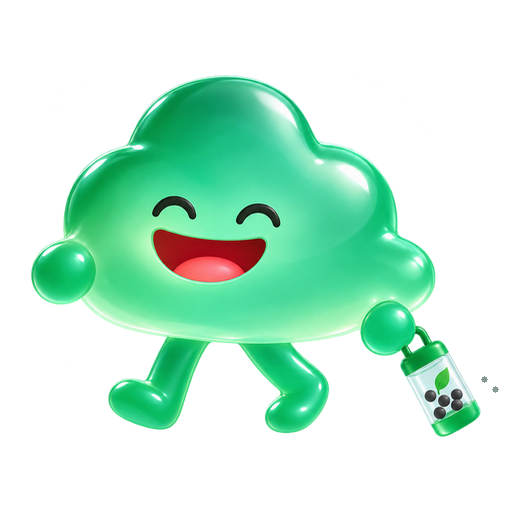
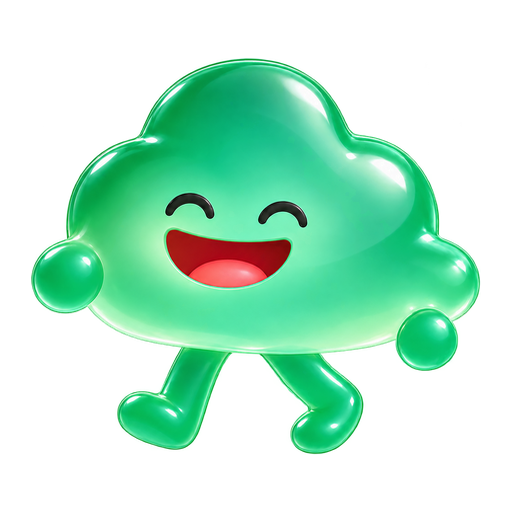
v0.44.1: 去掉语音助手手持瓶并更新透明动图

Changed region(s): [[0.0625, 0.0938, 0.9375, 0.9062], [0.9375, 0.7188, 0.9688, 0.75]]

diff --git a/apps/web/components/VoiceAssistant.tsx b/apps/web/components/VoiceAssistant.tsx
@@ -84,7 +84,7 @@ export default function VoiceAssistant({ year, overview, page = "/" }: { year: n
             }
             .xy-character-button::before {
               inset:0; border:0; border-radius:0;
-              background:center / contain no-repeat url('/mascots/carbon-cloud/animation.gif');
+              background:center / contain no-repeat url('/mascots/carbon-cloud/animation.gif?v=0.44.1');
               z-index:2;
             }
             .xy-character-button::after { display:none; }
@@ -96,7 +96,7 @@ export default function VoiceAssistant({ year, overview, page = "/" }: { year: n
               .xy-widget[data-state=mic_off] .xy-status[data-error=false] { display:none; }
             }
             @media (prefers-reduced-motion:reduce) {
-              .xy-character-button::before { background-image:url('/mascots/carbon-cloud/poster.png'); }
+              .xy-character-button::before { background-image:url('/mascots/carbon-cloud/poster.png?v=0.44.1'); }
             }
           `;
           shadow.appendChild(style);

diff --git a/scripts/render-mascot-gifs.py b/scripts/render-mascot-gifs.py
@@ -58,17 +58,7 @@ def voice_marks(canvas: Image.Image, phase: float, kind: str) -> None:
                 angles = (-65, 65) if side > 0 else (115, 245)
                 arc(center_x, center_y, radius, *angles, alpha)
     else:
-        # Three dark particles drift into the bottle in a seamless cycle.
-        for offset in (0.0, 0.33, 0.66):
-            progress = (phase / (2 * math.pi) + offset) % 1.0
-            x = round(507 - 35 * progress)
-            y = round(392 - 17 * progress + 3 * math.sin(phase + offset * 6))
-            alpha = round(160 * math.sin(math.pi * progress))
-            radius = round(4 - 2 * progress)
-            for dx in range(-radius, radius + 1):
-                for dy in range(-radius, radius + 1):
-                    if dx * dx + dy * dy <= radius * radius:
-                        canvas.putpixel((x + dx, y + dy), (37, 67, 60, alpha))
+        # The cloud has empty hands; retain only the voice pulse accent.
         for radius in (17, 28):
             pulse = max(0.0, math.sin(phase - radius / 24))
             alpha = round(105 * pulse)

diff --git a/apps/web/public/mascots/carbon-cloud/README.md b/apps/web/public/mascots/carbon-cloud/README.md
@@ -1,0 +1,15 @@
+# 小云语音助手形象
+
+更新日期：2026-10-22（仓库 v0.44.1）。按用户要求移除手持碳捕集瓶，双手空手，保留绿色云朵与笑脸。
+
+- `source.png`：使用内置 `image_gen`，以原透明 PNG 为编辑目标生成的无道具透明原图。
+- `animation.gif`：网站默认形象，512 × 512、36 帧、2.52 秒透明循环，轻微浮动与语音波纹；不再生成吸入瓶子的颗粒。
+- `poster.png`：相同形象的静态首帧，用于系统减少动态效果偏好。
+
+在仓库根目录运行 `python scripts/render-mascot-gifs.py carbon-cloud` 重新渲染 GIF 和静态首帧，需要 Pillow。
+
+## 完整编辑提示词
+
+```text
+Use case: precise-object-edit. Edit target: the provided transparent PNG of the glossy green cloud voice-assistant mascot. Remove ONLY the bottle/canister the mascot is carrying on the viewer's right, including its green handle, leaf symbol and all dark carbon pellets. Leave that rounded green hand naturally empty, with a clean complete silhouette. Preserve the same character identity, cloud outline, smiling closed eyes and open mouth, glossy translucent emerald/jade material, lighting, colors, cute rounded limbs and walking pose. Do not redesign the mascot. Center the full character with transparent padding, no clipping. Real transparent background, no background color, no text, no accessories, no floating particles or replacement object. Deliver a single clean full-body transparent mascot image suitable as the source of a looping website animation.
+```

diff --git a/CHANGELOG.md b/CHANGELOG.md
@@ -2,6 +2,12 @@
 
 本文件记录仓库的版本与每次任务的修改内容。仓库版本独立于方案文档内部标注的版本。
 
+## v0.44.1 - 2026-10-22
+
+- 按用户要求去掉语音助手绿色云朵手里的碳捕集瓶和提手，保留云朵、笑脸、绿色材质与原有姿态；使用内置 image_gen 编辑透明原图。
+- 同步更新透明循环 GIF 与减少动态效果时使用的静态 PNG，移除原来飘向瓶子的碳颗粒动画，保留轻微浮动与语音波纹。
+- 为两种页面形象资源增加版本参数，刷新后加载新素材；生成方式、完整提示词及重渲染命令见素材目录 README。
+
 ## v0.44.0 - 2026-10-22
 
 - 新增网站产品展示图四张：无醛秸秆刨花板、定制衣柜成品、LED 晶圆、笔记本背光模组，各一张，直接保存于项目根目录。
